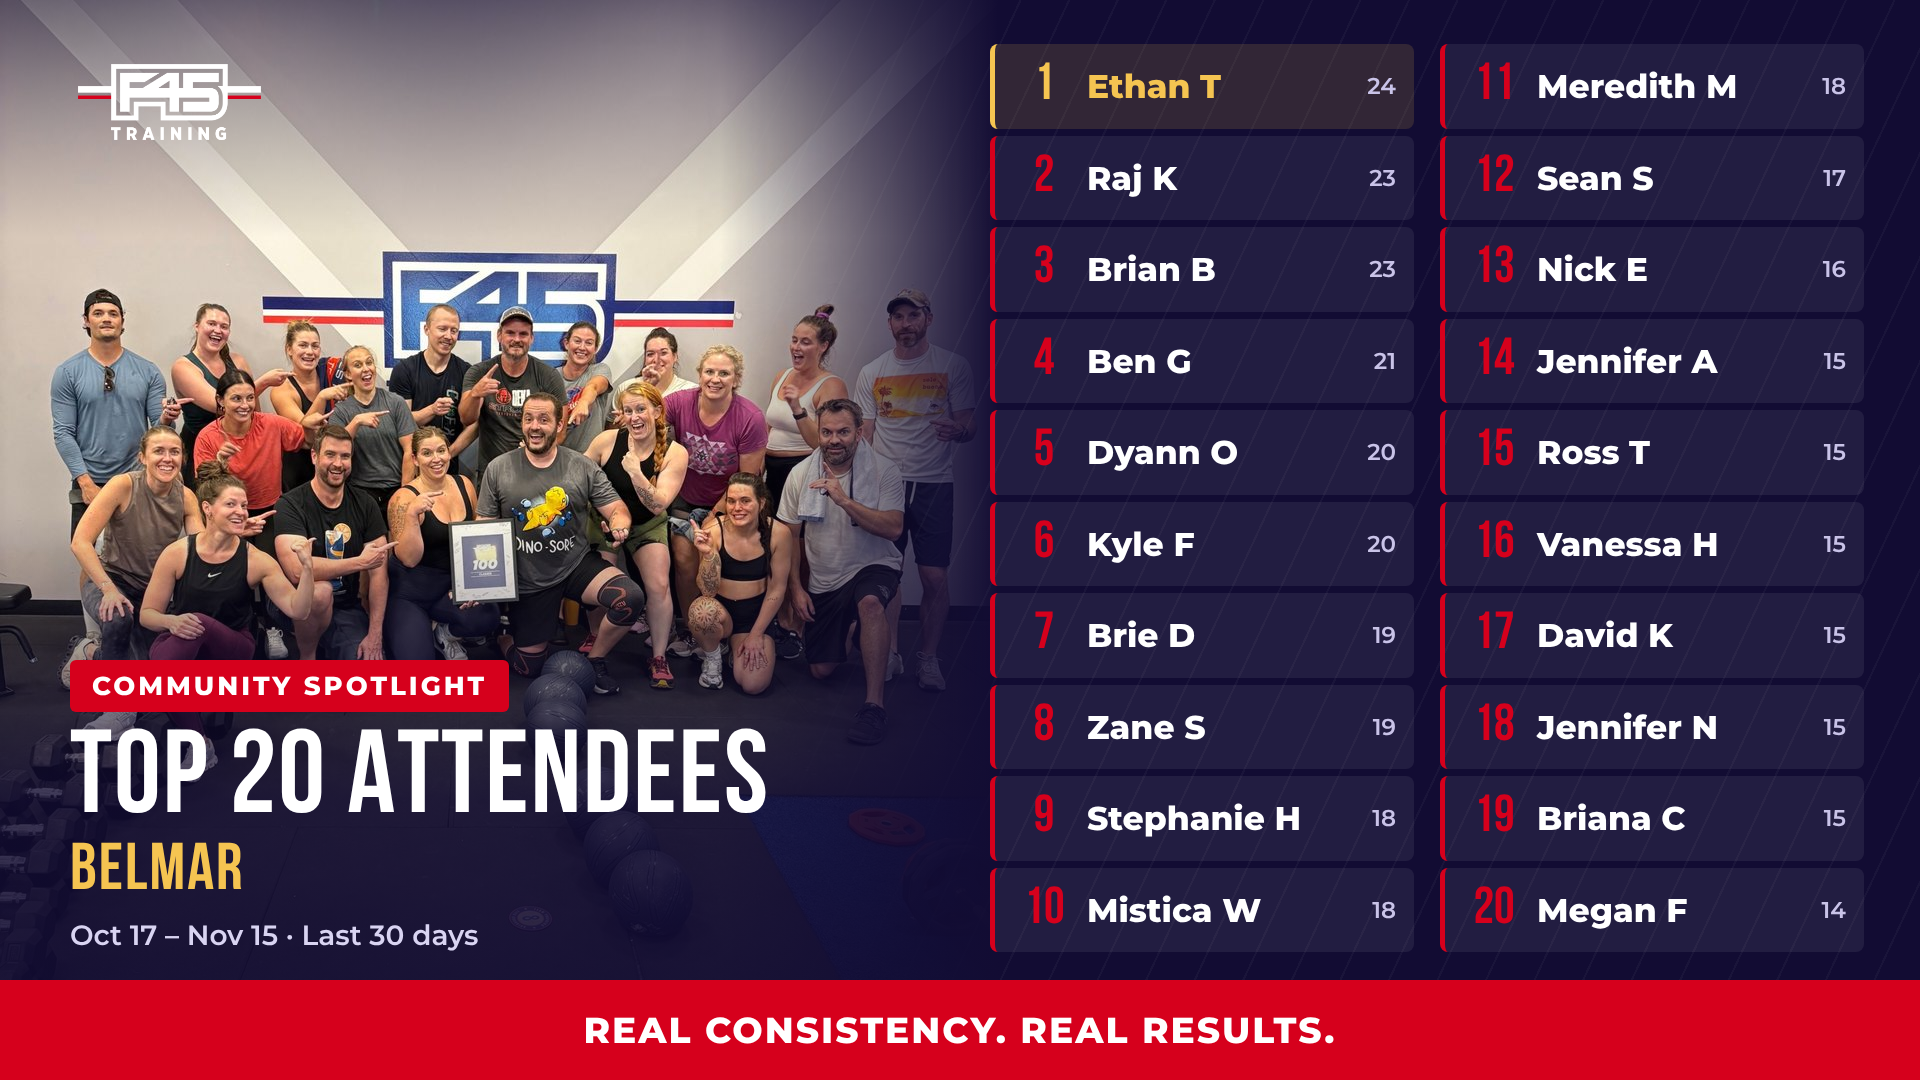
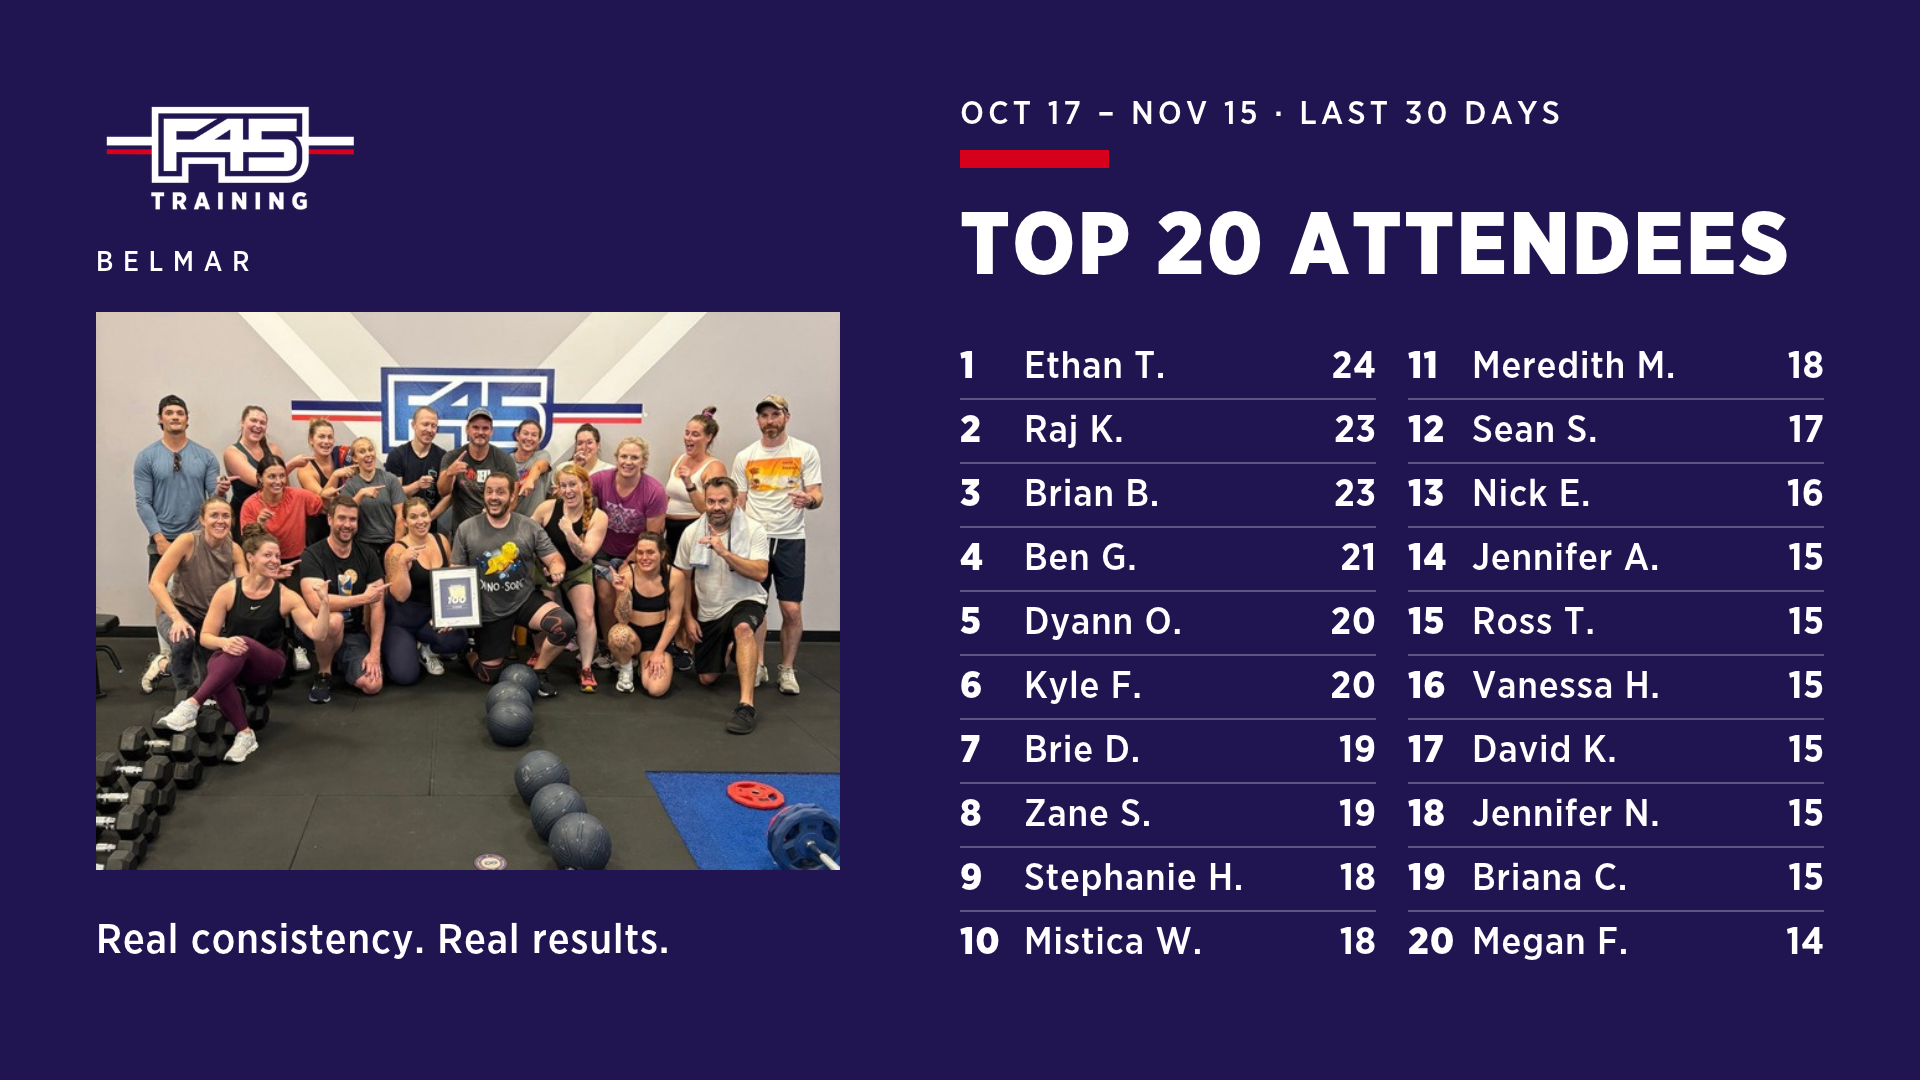
Top 20 lobby slides: switch 10 studios to the Canva brand template (Nov 2026 lists unchanged)
Uptown Denver keeps its JC tribute slide for November.

Claude-Session: https://claude.ai/code/session_01YPXGFHrfi8bggraVgC5VGW

diff --git a/top-attendees-live/screen/pecans_of_queen_creek.html b/top-attendees-live/screen/pecans_of_queen_creek.html
@@ -5,6 +5,6 @@
 // Shows the slide only inside its window (America/Phoenix, UTC-7). After that: FALLBACK_URL if set, else a dark screen.
 var START=new Date("2026-11-16T00:00:00-07:00"),END=new Date("2026-11-26T00:00:00-07:00"),FALLBACK_IMG="../current/pecans_of_queen_creek_welcome.png?v=20261116b";
 var n=new Date();
-if(n>=START&&n<END){document.getElementById("s").src="../current/pecans_of_queen_creek.png?v=20261116b";}
+if(n>=START&&n<END){document.getElementById("s").src="../current/pecans_of_queen_creek.png?v=t20c1120";}
 else{document.getElementById("s").src=FALLBACK_IMG;}
 </script></body></html>

diff --git a/top-attendees-live/screen/gilbert_and_the_202.html b/top-attendees-live/screen/gilbert_and_the_202.html
@@ -5,6 +5,6 @@
 // Shows the slide only inside its window (America/Phoenix, UTC-7). After that: FALLBACK_URL if set, else a dark screen.
 var START=new Date("2026-11-16T00:00:00-07:00"),END=new Date("2026-11-26T00:00:00-07:00"),FALLBACK_IMG="../current/gilbert_and_the_202_welcome.png?v=20261116";
 var n=new Date();
-if(n>=START&&n<END){document.getElementById("s").src="../current/gilbert_and_the_202.png?v=20261116";}
+if(n>=START&&n<END){document.getElementById("s").src="../current/gilbert_and_the_202.png?v=t20c1120";}
 else{document.getElementById("s").src=FALLBACK_IMG;}
 </script></body></html>

diff --git a/top-attendees-live/screen/golden_triangle.html b/top-attendees-live/screen/golden_triangle.html
@@ -5,6 +5,6 @@
 // Shows the slide only inside its window (America/Denver, UTC-7 in Nov). After that: FALLBACK_URL if set, else a dark screen.
 var START=new Date("2026-11-16T00:00:00-07:00"),END=new Date("2026-11-26T00:00:00-07:00"),FALLBACK_IMG="../current/golden_triangle_welcome.png?v=20261116";
 var n=new Date();
-if(n>=START&&n<END){document.getElementById("s").src="../current/golden_triangle.png?v=20261116";}
+if(n>=START&&n<END){document.getElementById("s").src="../current/golden_triangle.png?v=t20c1120";}
 else{document.getElementById("s").src=FALLBACK_IMG;}
 </script></body></html>

diff --git a/top-attendees-live/screen/chandler_north.html b/top-attendees-live/screen/chandler_north.html
@@ -5,6 +5,6 @@
 // Shows the slide only inside its window (America/Phoenix, UTC-7). After that: FALLBACK_URL if set, else a dark screen.
 var START=new Date("2026-11-16T00:00:00-07:00"),END=new Date("2026-11-26T00:00:00-07:00"),FALLBACK_IMG="../current/chandler_north_welcome.png?v=20261116";
 var n=new Date();
-if(n>=START&&n<END){document.getElementById("s").src="../current/chandler_north.png?v=20261116";}
+if(n>=START&&n<END){document.getElementById("s").src="../current/chandler_north.png?v=t20c1120";}
 else{document.getElementById("s").src=FALLBACK_IMG;}
 </script></body></html>

diff --git a/top-attendees-live/screen/north_thornton.html b/top-attendees-live/screen/north_thornton.html
@@ -5,6 +5,6 @@
 // Shows the slide only inside its window (America/Phoenix, UTC-7). After that: FALLBACK_URL if set, else a dark screen.
 var START=new Date("2026-11-16T00:00:00-07:00"),END=new Date("2026-11-26T00:00:00-07:00"),FALLBACK_IMG="../current/north_thornton_welcome.png?v=20261116";
 var n=new Date();
-if(n>=START&&n<END){document.getElementById("s").src="../current/north_thornton.png?v=20261116";}
+if(n>=START&&n<END){document.getElementById("s").src="../current/north_thornton.png?v=t20c1120";}
 else{document.getElementById("s").src=FALLBACK_IMG;}
 </script></body></html>

diff --git a/top-attendees-live/screen/santan_village.html b/top-attendees-live/screen/santan_village.html
@@ -5,6 +5,6 @@
 // Shows the slide only inside its window (America/Phoenix, UTC-7). After that: FALLBACK_URL if set, else a dark screen.
 var START=new Date("2026-11-16T00:00:00-07:00"),END=new Date("2026-11-26T00:00:00-07:00"),FALLBACK_IMG="../current/santan_village_welcome.png?v=20261116";
 var n=new Date();
-if(n>=START&&n<END){document.getElementById("s").src="../current/santan_village.png?v=20261116";}
+if(n>=START&&n<END){document.getElementById("s").src="../current/santan_village.png?v=t20c1120";}
 else{document.getElementById("s").src=FALLBACK_IMG;}
 </script></body></html>

diff --git a/top-attendees-live/screen/uptown_phoenix.html b/top-attendees-live/screen/uptown_phoenix.html
@@ -5,6 +5,6 @@
 // Shows the slide only inside its window (America/Phoenix, UTC-7). After that: FALLBACK_URL if set, else a dark screen.
 var START=new Date("2026-11-16T00:00:00-07:00"),END=new Date("2026-11-26T00:00:00-07:00"),FALLBACK_IMG="../current/uptown_phoenix_welcome.png?v=20261116";
 var n=new Date();
-if(n>=START&&n<END){document.getElementById("s").src="../current/uptown_phoenix.png?v=20261116";}
+if(n>=START&&n<END){document.getElementById("s").src="../current/uptown_phoenix.png?v=t20c1120";}
 else{document.getElementById("s").src=FALLBACK_IMG;}
 </script></body></html>

diff --git a/top-attendees-live/screen/west_highland.html b/top-attendees-live/screen/west_highland.html
@@ -5,6 +5,6 @@
 // Shows the slide only inside its window (America/Phoenix, UTC-7). After that: FALLBACK_URL if set, else a dark screen.
 var START=new Date("2026-11-16T00:00:00-07:00"),END=new Date("2026-11-26T00:00:00-07:00"),FALLBACK_IMG="../current/west_highland_welcome.png?v=20261116";
 var n=new Date();
-if(n>=START&&n<END){document.getElementById("s").src="../current/west_highland.png?v=20261116";}
+if(n>=START&&n<END){document.getElementById("s").src="../current/west_highland.png?v=t20c1120";}
 else{document.getElementById("s").src=FALLBACK_IMG;}
 </script></body></html>

diff --git a/top-attendees-live/screen/belmar.html b/top-attendees-live/screen/belmar.html
@@ -5,6 +5,6 @@
 // Shows the slide only inside its window (America/Phoenix, UTC-7). After that: FALLBACK_URL if set, else a dark screen.
 var START=new Date("2026-11-16T00:00:00-07:00"),END=new Date("2026-11-26T00:00:00-07:00"),FALLBACK_IMG="../current/belmar_welcome.png?v=20261116";
 var n=new Date();
-if(n>=START&&n<END){document.getElementById("s").src="../current/belmar.png?v=20261119";}
+if(n>=START&&n<END){document.getElementById("s").src="../current/belmar.png?v=t20c1120";}
 else{document.getElementById("s").src=FALLBACK_IMG;}
 </script></body></html>

diff --git a/top-attendees-live/screen/parker.html b/top-attendees-live/screen/parker.html
@@ -5,6 +5,6 @@
 // Shows the slide only inside its window (America/Phoenix, UTC-7). After that: FALLBACK_URL if set, else a dark screen.
 var START=new Date("2026-11-16T00:00:00-07:00"),END=new Date("2026-11-26T00:00:00-07:00"),FALLBACK_IMG="../current/parker_welcome.png?v=20261116";
 var n=new Date();
-if(n>=START&&n<END){document.getElementById("s").src="../current/parker.png?v=20261116";}
+if(n>=START&&n<END){document.getElementById("s").src="../current/parker.png?v=t20c1120";}
 else{document.getElementById("s").src=FALLBACK_IMG;}
 </script></body></html>
